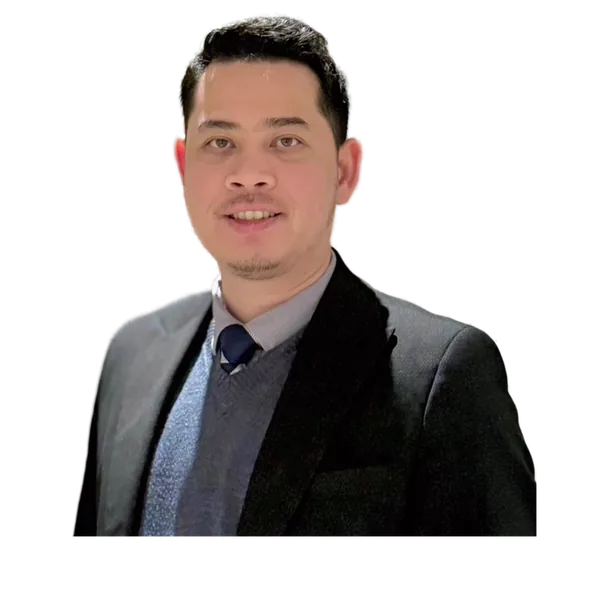
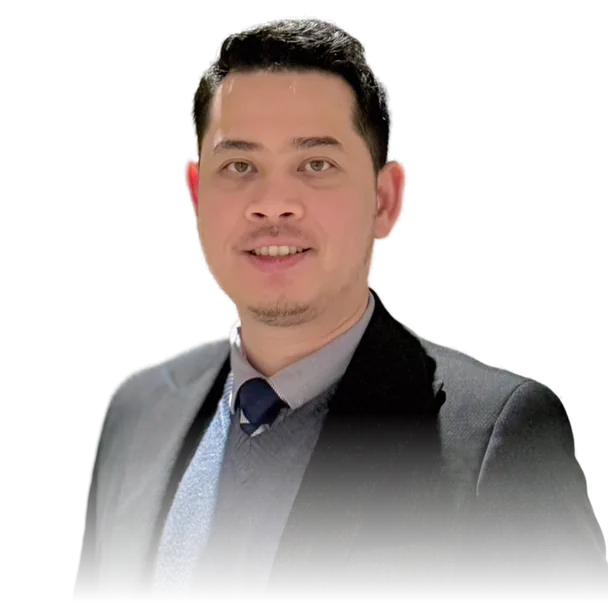
He is from here, and he was not here when the water came
The owner's own account replaces my draft of their reasons. The page now
says plainly that they are from the region but were abroad for the last
two floods, and that work has them in Riyadh; that what they do for
other people's regions could be done for home; and that Jaga is for
everyone else to use - before the water, so people can get ready, and
during it, so residents and rescue teams are in one place looking at the
same picture. The last line follows from the first: because he is not
there when it floods, Jaga has to work without waiting for him.

Also theirs, this round: Riyadh is Riyadh, Saudi Arabia; Patani Malay is
listed as a mother tongue under Thai, with standard Malay kept separate
as professional; and the defence step is Defence & Space, with
"Intelligence" dropped from its tag.

The portrait's bottom edge now fades in the file's own alpha instead of
in CSS. A CSS mask is positioned against the element, and the fade was
landing in the transparent space below the subject, leaving the
photograph's straight cut through his jacket exactly as sharp. The
picture has the hard edge, so the picture carries the fade: the cutout
script crops to the shoulders and takes the alpha to nothing over the
foot of the square.

diff --git a/components/about/Portrait.module.css b/components/about/Portrait.module.css
@@ -88,21 +88,20 @@
  * The fade above is kept for any future portrait that is not cut out, because a photo with its
  * own background still needs somewhere to dissolve into.
  */
+/*
+ * The foot of the picture fades in the file's own alpha (`.claude/local/cutout.py`), not here.
+ * A CSS mask is positioned against the element, and the first attempt laid the fade over the
+ * transparent space below the subject, where it did nothing: the photograph's straight cut
+ * through his jacket stayed exactly as sharp as before. The picture has the hard edge, so the
+ * picture carries the fade.
+ */
 .cut .photo {
-  /* Only the foot of the picture fades, so the shoulders dissolve into the panel instead of
-     being sliced off by the edge of a frame that is not drawn. */
-  mask-image: linear-gradient(to bottom, #000 76%, transparent 99%);
+  mask-image: none;
   border-radius: 0;
-}
-
-.cut .photo {
   object-fit: contain;
-  object-position: 50% 100%;
-  /* The subject is the whole picture now, so it may fill the slot and overhang it a little. */
-  width: 118%;
-  height: 118%;
-  margin-block-start: -9%;
-  filter: saturate(0.94) contrast(1.03) drop-shadow(0 6px 14px rgba(0, 0, 0, 0.35));
+  width: 100%;
+  height: 100%;
+  filter: saturate(0.94) contrast(1.03) drop-shadow(0 4px 10px rgba(0, 0, 0, 0.28));
 }
 
 /*
@@ -119,10 +118,10 @@
   inset: -6%;
   border-radius: 50%;
   background: radial-gradient(
-    circle at 50% 52%,
+    circle at 50% 42%,
     color-mix(in srgb, var(--jaga-teal) 62%, transparent),
-    color-mix(in srgb, var(--jaga-teal-ink) 26%, transparent) 55%,
-    transparent 72%
+    color-mix(in srgb, var(--jaga-teal-ink) 24%, transparent) 52%,
+    transparent 70%
   );
   filter: blur(10px);
 }

diff --git a/app/[locale]/dev/about/page.tsx b/app/[locale]/dev/about/page.tsx
@@ -38,10 +38,10 @@ export default async function AboutReviewPage({
           the translation.
         </p>
         <p className={hint}>
-          <b>Needs your own words:</b> the three paragraphs under &ldquo;why I built this&rdquo; are
-          my draft of your reasons, including the claim that you are from this part of the country.
-          Rewrite them in your voice before this goes public. Everything else on the page comes from
-          your career profile.
+          <b>Check the wording:</b> the four paragraphs under &ldquo;why I built this&rdquo; are now
+          written from what you told me &mdash; that you are from the region but were abroad for the
+          last two floods, and that Jaga is for everyone else to use before and during one. Read
+          them and tell me if any of it lands wrong. Everything else comes from your career profile.
         </p>
         <div className="flex flex-col gap-2">
           <p className="font-medium text-jaga-ink">The portrait slot, both ways</p>

diff --git a/components/about/About.tsx b/components/about/About.tsx
@@ -84,7 +84,7 @@ export function About({ showPortrait = PORTRAIT_READY }: { showPortrait?: boolea
         <h2 id="about-why" className="text-h3 font-bold text-jaga-ink">
           {t("why.title")}
         </h2>
-        {(["p1", "p2", "p3"] as const).map((key) => (
+        {(["p1", "p2", "p3", "p4"] as const).map((key) => (
           <p key={key} className="text-jaga-text">
             {t(`why.${key}`)}
           </p>

diff --git a/tests/unit/about.test.tsx b/tests/unit/about.test.tsx
@@ -45,6 +45,7 @@ describe("who built Jaga: the lines", () => {
       "why.p1",
       "why.p2",
       "why.p3",
+      "why.p4",
       "journey.title",
       "journey.lead",
       "journey.note",

diff --git a/lib/about.ts b/lib/about.ts
@@ -63,7 +63,7 @@ export const CREDENTIAL_ITEMS: Record<CredentialGroup, number> = {
   education: 2,
   membership: 1,
   training: 4,
-  languages: 5,
+  languages: 6,
 };
 
 /**
